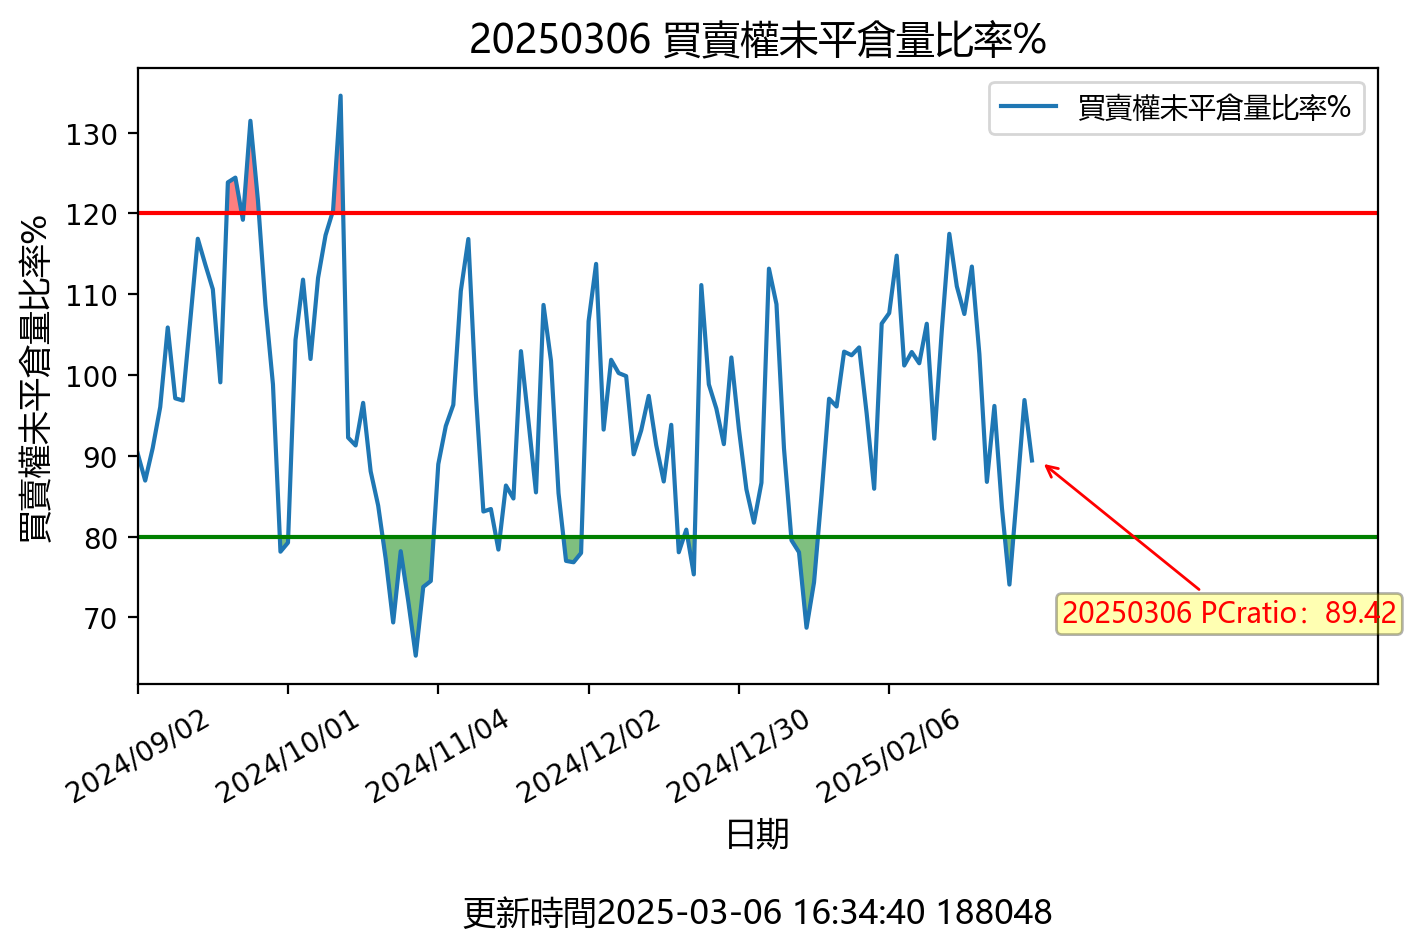
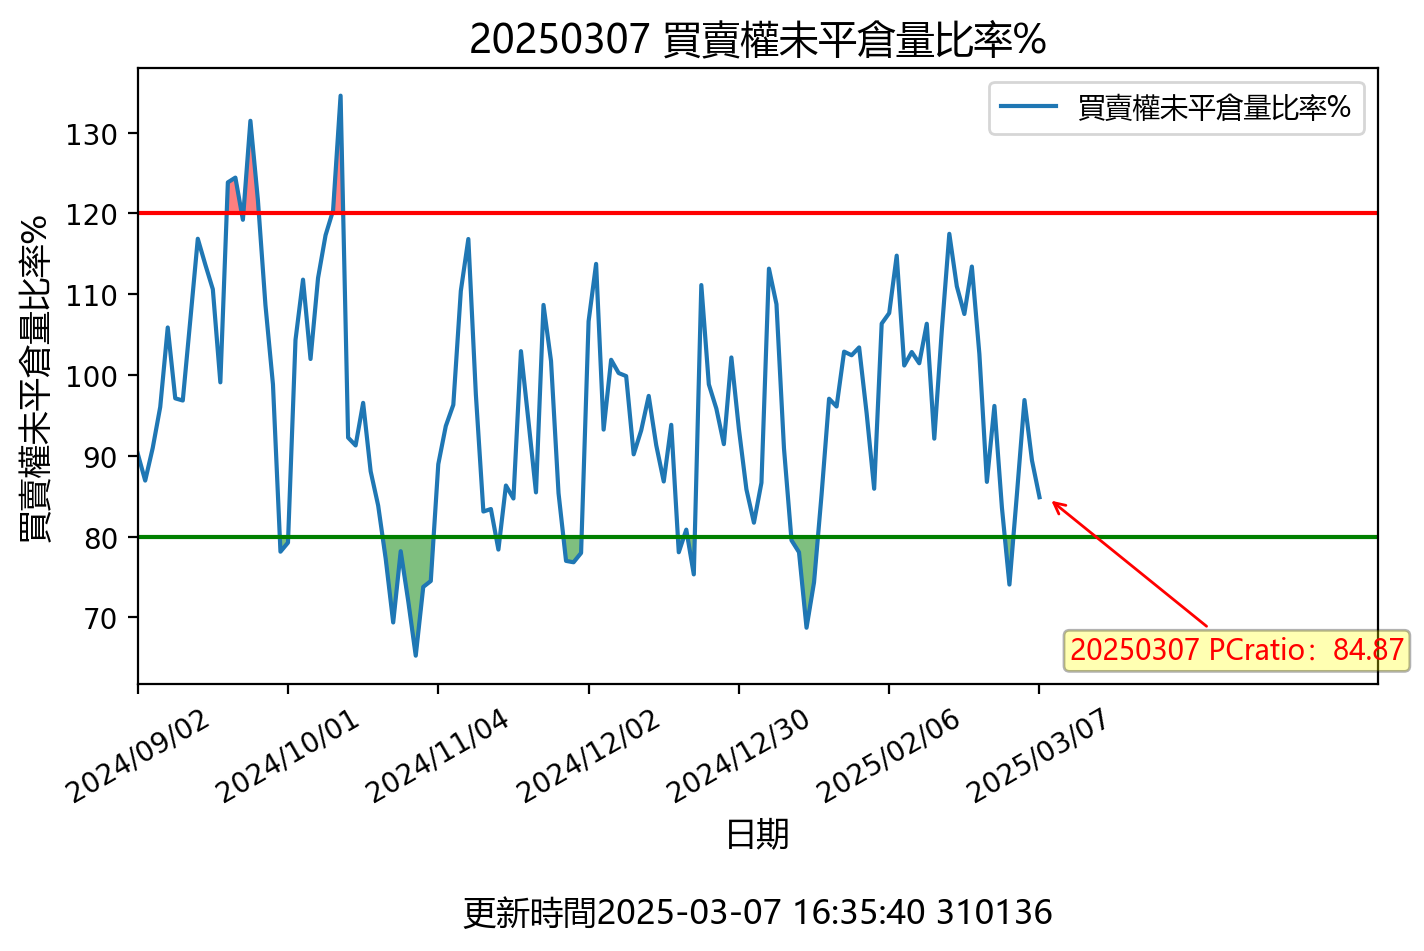
更新時間: Fri Mar  7 16:35:57 CST 2025

diff --git a/README.md b/README.md
@@ -1,12 +1,12 @@
-## 20250306 台指期「預估換倉成本」
+## 20250307 台指期「預估換倉成本」
 ![](images/txfcost.png)
 
-## 20250306 台指期「散戶小台多空比」
+## 20250307 台指期「散戶小台多空比」
 ![](images/bbiri.png)
 
-## 20250306 台指選擇權「Put/Call Ratios」
+## 20250307 台指選擇權「Put/Call Ratios」
 ![](images/pcratio.png)
 
-## 20250306 台指期「大額交易人」
+## 20250307 台指期「大額交易人」
 ![](images/blocktrade.png)
 
